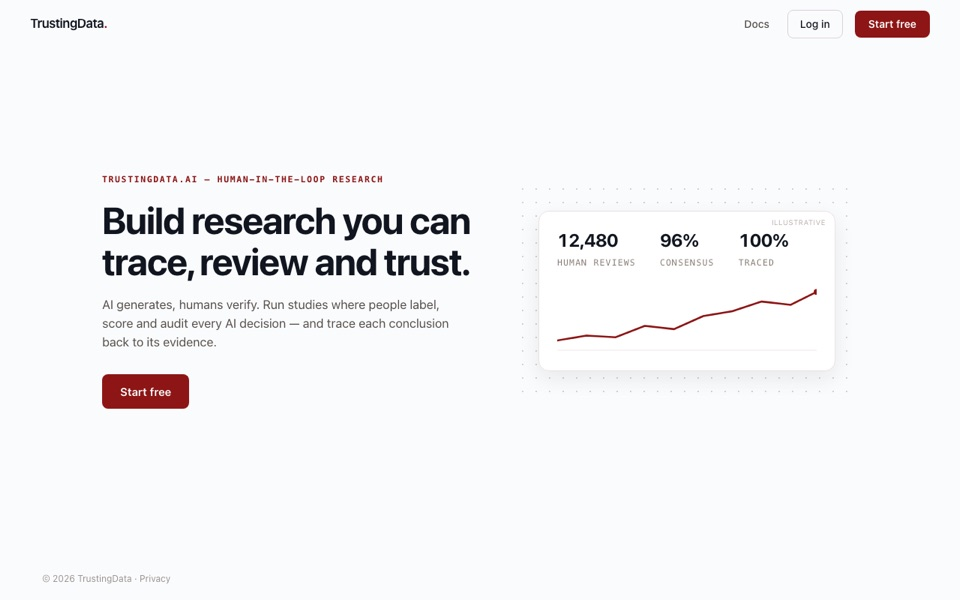
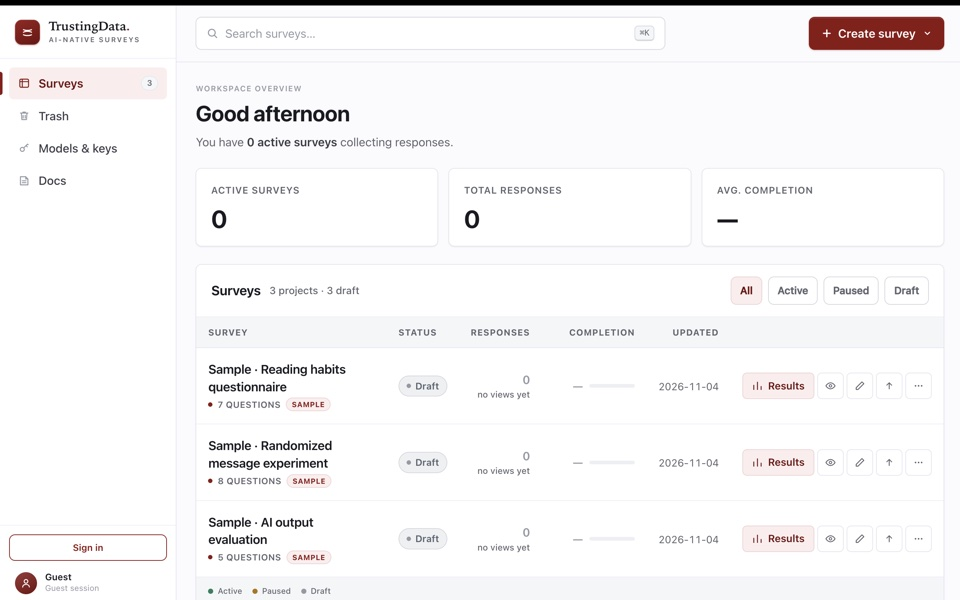
Use the trustingdata.ai workspace screenshot as the project cover

diff --git a/projects.html b/projects.html
@@ -1,1 +1,1 @@
-<!doctype html><html lang="en" id="top"><head><meta charset="utf-8"><meta name="viewport" content="width=device-width, initial-scale=1"><title>Projects | Weihang Ding</title><meta name="description" content="Weihang (Charles) Ding — Machine Learning Engineer at GMI Cloud. LLM and agent evaluation, model routing, and post-training."><meta name="theme-color" content="#ffffff"><meta name="site-version" content="academic-en-9-projects"><link rel="canonical" href="https://charlesdingd.github.io/projects.html"><link rel="icon" href="favicon.svg" type="image/svg+xml"><meta property="og:type" content="website"><meta property="og:title" content="Projects | Weihang Ding"><meta property="og:description" content="Weihang (Charles) Ding — Machine Learning Engineer at GMI Cloud. LLM and agent evaluation, model routing, and post-training."><meta property="og:url" content="https://charlesdingd.github.io/projects.html"><meta property="og:image" content="https://charlesdingd.github.io/avatar.png"><meta name="twitter:card" content="summary"><script src="theme.js?v=academic-en-9-projects"></script><link rel="stylesheet" href="style.css?v=academic-en-9-projects"></head><body><a class="skip" href="#main">Skip to content</a><header class="site-header"><div class="header-inner"><a class="site-name" href="index.html">Weihang Ding</a><nav id="primary-nav" aria-label="Main navigation"><a href="index.html">Home</a><a href="experience.html">Experience</a><a href="research.html">Research</a><a href="projects.html" aria-current="page">Projects</a><a href="index.html#writing">Writing</a></nav><div class="header-tools"><button class="search-toggle" type="button" aria-label="Search this website"><svg class="icon " viewBox="0 0 24 24" aria-hidden="true" fill="none" stroke="currentColor" stroke-width="1.6" stroke-linecap="round" stroke-linejoin="round"><circle cx="10.5" cy="10.5" r="6.5"/><path d="m16 16 5 5"/></svg></button><button class="theme-toggle" type="button" aria-label="Switch to dark mode" aria-pressed="false"><svg class="icon moon" viewBox="0 0 24 24" aria-hidden="true" fill="none" stroke="currentColor" stroke-width="1.6" stroke-linecap="round" stroke-linejoin="round"><path d="M20 15.4A8.6 8.6 0 0 1 8.6 4 8.6 8.6 0 1 0 20 15.4Z"/></svg><svg class="icon sun" viewBox="0 0 24 24" aria-hidden="true" fill="none" stroke="currentColor" stroke-width="1.6" stroke-linecap="round" stroke-linejoin="round"><circle cx="12" cy="12" r="4"/><path d="M12 2v2m0 16v2M2 12h2m16 0h2M5 5l1.5 1.5m11 11L19 19M5 19l1.5-1.5m11-11L19 5"/></svg></button><button class="menu-toggle" type="button" aria-label="Open navigation" aria-controls="primary-nav" aria-expanded="false"><svg class="icon " viewBox="0 0 24 24" aria-hidden="true" fill="none" stroke="currentColor" stroke-width="1.6" stroke-linecap="round" stroke-linejoin="round"><path d="M4 6h16M4 12h16M4 18h16"/></svg></button></div></div></header><main id="main" class="detail-main projects-main"><h1 class="page-title">Selected Projects</h1><p class="page-description">Systems I have built across agent evaluation, human-in-the-loop research, and quantitative research.</p><div class="project-grid"><article class="project-card" id="trustingdata"><a class="project-cover" href="https://trustingdata.ai" target="_blank" rel="noopener noreferrer" aria-label="Open trustingdata.ai"><img src="project-trustingdata.jpg" alt="trustingdata.ai landing page: build research you can trace, review and trust" width="960" height="600" loading="lazy" decoding="async"></a><div class="project-category">Human–AI Interaction · Full-stack</div><h2><a href="https://trustingdata.ai" target="_blank" rel="noopener noreferrer">trustingdata.ai <span class="ext" aria-hidden="true">↗</span></a></h2><p>A platform for human-in-the-loop evaluation of multimodal and agentic AI, built at Stanford GSB’s AIM-Lab and deployed on Google Cloud. People label, score, and audit AI decisions, and every conclusion traces back to its evidence. It supports Stanford GSB and Wharton studies of human–LLM and human–agent interaction.</p><p class="project-note">Stanford GSB AIM-Lab · Google Cloud</p></article><article class="project-card" id="terminal-bench-science"><a class="project-cover" href="https://github.com/harbor-framework/terminal-bench-science/pull/2254" target="_blank" rel="noopener noreferrer" aria-label="Open the Terminal-Bench Science pull request"><img src="project-tbs.jpg" alt="Terminal-Bench Science pull request #2254: ward discharge planning task" width="960" height="600" loading="lazy" decoding="async"></a><div class="project-category">Agent Evaluation · Operations Research</div><h2><a href="https://github.com/harbor-framework/terminal-bench-science/pull/2254" target="_blank" rel="noopener noreferrer">Terminal-Bench Science task <span class="ext" aria-hidden="true">↗</span></a></h2><p>A benchmark task I authored for Terminal-Bench Science. An agent must plan admissions, rooms, and discharges for 450–500 patients across 70–80 beds under thirteen rules, estimate readmission-risk curves from confounded records, and hand in a branch-and-bound certificate within 1% of optimum that the verifier re-solves leaf by leaf. Frontier agents pass at most 2 of 4 runs.</p><p class="project-note">Proposal approved · Domain review passed · Final review pending</p></article><article class="project-card" id="quantdesk"><a class="project-cover" href="https://quantdesk-lab.github.io/" target="_blank" rel="noopener noreferrer" aria-label="Open QuantDesk"><img src="project-quantdesk.jpg" alt="QuantDesk site: agents propose, gates decide" width="960" height="600" loading="lazy" decoding="async"></a><div class="project-category">AI Agents · Quantitative Research</div><h2><a href="https://quantdesk-lab.github.io/" target="_blank" rel="noopener noreferrer">quantdesk <span class="ext" aria-hidden="true">↗</span></a></h2><p>An agentic factor-mining and quant-strategy research stack for WorldQuant BRAIN. An LLM designer proposes alphas, the platform’s simulator evaluates them, and Thompson sampling over an auditable lineage archive decides what to mutate next. Admission gates refuse any statistic the sample cannot support.</p><p class="project-note">Python · WorldQuant BRAIN Gold level</p></article></div><p class="section-followup"><a href="https://github.com/Charlesdingd" class="" target="_blank" rel="noopener noreferrer">View more projects on GitHub →</a></p></main><footer class="site-footer"><p>© 2026 Weihang Ding.</p><p>Last updated: November 3, 2026</p></footer><dialog id="site-search" aria-labelledby="search-title"><div class="search-top"><h2 id="search-title">Search</h2><button class="search-close" type="button" aria-label="Close search"><svg class="icon " viewBox="0 0 24 24" aria-hidden="true" fill="none" stroke="currentColor" stroke-width="1.6" stroke-linecap="round" stroke-linejoin="round"><path d="m6 6 12 12M6 18 18 6"/></svg></button></div><label class="visually-hidden" for="search-input">Search this website</label><input id="search-input" type="search" autocomplete="off" placeholder="Search publications, experience, projects…"><div id="search-results" aria-live="polite"></div></dialog><script src="search-data.js?v=academic-en-9-projects"></script><script src="main.js?v=academic-en-9-projects"></script></body></html>
+<!doctype html><html lang="en" id="top"><head><meta charset="utf-8"><meta name="viewport" content="width=device-width, initial-scale=1"><title>Projects | Weihang Ding</title><meta name="description" content="Weihang (Charles) Ding — Machine Learning Engineer at GMI Cloud. LLM and agent evaluation, model routing, and post-training."><meta name="theme-color" content="#ffffff"><meta name="site-version" content="academic-en-9-projects"><link rel="canonical" href="https://charlesdingd.github.io/projects.html"><link rel="icon" href="favicon.svg" type="image/svg+xml"><meta property="og:type" content="website"><meta property="og:title" content="Projects | Weihang Ding"><meta property="og:description" content="Weihang (Charles) Ding — Machine Learning Engineer at GMI Cloud. LLM and agent evaluation, model routing, and post-training."><meta property="og:url" content="https://charlesdingd.github.io/projects.html"><meta property="og:image" content="https://charlesdingd.github.io/avatar.png"><meta name="twitter:card" content="summary"><script src="theme.js?v=academic-en-9-projects"></script><link rel="stylesheet" href="style.css?v=academic-en-9-projects"></head><body><a class="skip" href="#main">Skip to content</a><header class="site-header"><div class="header-inner"><a class="site-name" href="index.html">Weihang Ding</a><nav id="primary-nav" aria-label="Main navigation"><a href="index.html">Home</a><a href="experience.html">Experience</a><a href="research.html">Research</a><a href="projects.html" aria-current="page">Projects</a><a href="index.html#writing">Writing</a></nav><div class="header-tools"><button class="search-toggle" type="button" aria-label="Search this website"><svg class="icon " viewBox="0 0 24 24" aria-hidden="true" fill="none" stroke="currentColor" stroke-width="1.6" stroke-linecap="round" stroke-linejoin="round"><circle cx="10.5" cy="10.5" r="6.5"/><path d="m16 16 5 5"/></svg></button><button class="theme-toggle" type="button" aria-label="Switch to dark mode" aria-pressed="false"><svg class="icon moon" viewBox="0 0 24 24" aria-hidden="true" fill="none" stroke="currentColor" stroke-width="1.6" stroke-linecap="round" stroke-linejoin="round"><path d="M20 15.4A8.6 8.6 0 0 1 8.6 4 8.6 8.6 0 1 0 20 15.4Z"/></svg><svg class="icon sun" viewBox="0 0 24 24" aria-hidden="true" fill="none" stroke="currentColor" stroke-width="1.6" stroke-linecap="round" stroke-linejoin="round"><circle cx="12" cy="12" r="4"/><path d="M12 2v2m0 16v2M2 12h2m16 0h2M5 5l1.5 1.5m11 11L19 19M5 19l1.5-1.5m11-11L19 5"/></svg></button><button class="menu-toggle" type="button" aria-label="Open navigation" aria-controls="primary-nav" aria-expanded="false"><svg class="icon " viewBox="0 0 24 24" aria-hidden="true" fill="none" stroke="currentColor" stroke-width="1.6" stroke-linecap="round" stroke-linejoin="round"><path d="M4 6h16M4 12h16M4 18h16"/></svg></button></div></div></header><main id="main" class="detail-main projects-main"><h1 class="page-title">Selected Projects</h1><p class="page-description">Systems I have built across agent evaluation, human-in-the-loop research, and quantitative research.</p><div class="project-grid"><article class="project-card" id="trustingdata"><a class="project-cover" href="https://trustingdata.ai" target="_blank" rel="noopener noreferrer" aria-label="Open trustingdata.ai"><img src="project-trustingdata.jpg" alt="trustingdata.ai workspace: surveys dashboard with sample studies" width="960" height="600" loading="lazy" decoding="async"></a><div class="project-category">Human–AI Interaction · Full-stack</div><h2><a href="https://trustingdata.ai" target="_blank" rel="noopener noreferrer">trustingdata.ai <span class="ext" aria-hidden="true">↗</span></a></h2><p>A platform for human-in-the-loop evaluation of multimodal and agentic AI, built at Stanford GSB’s AIM-Lab and deployed on Google Cloud. People label, score, and audit AI decisions, and every conclusion traces back to its evidence. It supports Stanford GSB and Wharton studies of human–LLM and human–agent interaction.</p><p class="project-note">Stanford GSB AIM-Lab · Google Cloud</p></article><article class="project-card" id="terminal-bench-science"><a class="project-cover" href="https://github.com/harbor-framework/terminal-bench-science/pull/2254" target="_blank" rel="noopener noreferrer" aria-label="Open the Terminal-Bench Science pull request"><img src="project-tbs.jpg" alt="Terminal-Bench Science pull request #2254: ward discharge planning task" width="960" height="600" loading="lazy" decoding="async"></a><div class="project-category">Agent Evaluation · Operations Research</div><h2><a href="https://github.com/harbor-framework/terminal-bench-science/pull/2254" target="_blank" rel="noopener noreferrer">Terminal-Bench Science task <span class="ext" aria-hidden="true">↗</span></a></h2><p>A benchmark task I authored for Terminal-Bench Science. An agent must plan admissions, rooms, and discharges for 450–500 patients across 70–80 beds under thirteen rules, estimate readmission-risk curves from confounded records, and hand in a branch-and-bound certificate within 1% of optimum that the verifier re-solves leaf by leaf. Frontier agents pass at most 2 of 4 runs.</p><p class="project-note">Proposal approved · Domain review passed · Final review pending</p></article><article class="project-card" id="quantdesk"><a class="project-cover" href="https://quantdesk-lab.github.io/" target="_blank" rel="noopener noreferrer" aria-label="Open QuantDesk"><img src="project-quantdesk.jpg" alt="QuantDesk site: agents propose, gates decide" width="960" height="600" loading="lazy" decoding="async"></a><div class="project-category">AI Agents · Quantitative Research</div><h2><a href="https://quantdesk-lab.github.io/" target="_blank" rel="noopener noreferrer">quantdesk <span class="ext" aria-hidden="true">↗</span></a></h2><p>An agentic factor-mining and quant-strategy research stack for WorldQuant BRAIN. An LLM designer proposes alphas, the platform’s simulator evaluates them, and Thompson sampling over an auditable lineage archive decides what to mutate next. Admission gates refuse any statistic the sample cannot support.</p><p class="project-note">Python · WorldQuant BRAIN Gold level</p></article></div><p class="section-followup"><a href="https://github.com/Charlesdingd" class="" target="_blank" rel="noopener noreferrer">View more projects on GitHub →</a></p></main><footer class="site-footer"><p>© 2026 Weihang Ding.</p><p>Last updated: November 3, 2026</p></footer><dialog id="site-search" aria-labelledby="search-title"><div class="search-top"><h2 id="search-title">Search</h2><button class="search-close" type="button" aria-label="Close search"><svg class="icon " viewBox="0 0 24 24" aria-hidden="true" fill="none" stroke="currentColor" stroke-width="1.6" stroke-linecap="round" stroke-linejoin="round"><path d="m6 6 12 12M6 18 18 6"/></svg></button></div><label class="visually-hidden" for="search-input">Search this website</label><input id="search-input" type="search" autocomplete="off" placeholder="Search publications, experience, projects…"><div id="search-results" aria-live="polite"></div></dialog><script src="search-data.js?v=academic-en-9-projects"></script><script src="main.js?v=academic-en-9-projects"></script></body></html>
